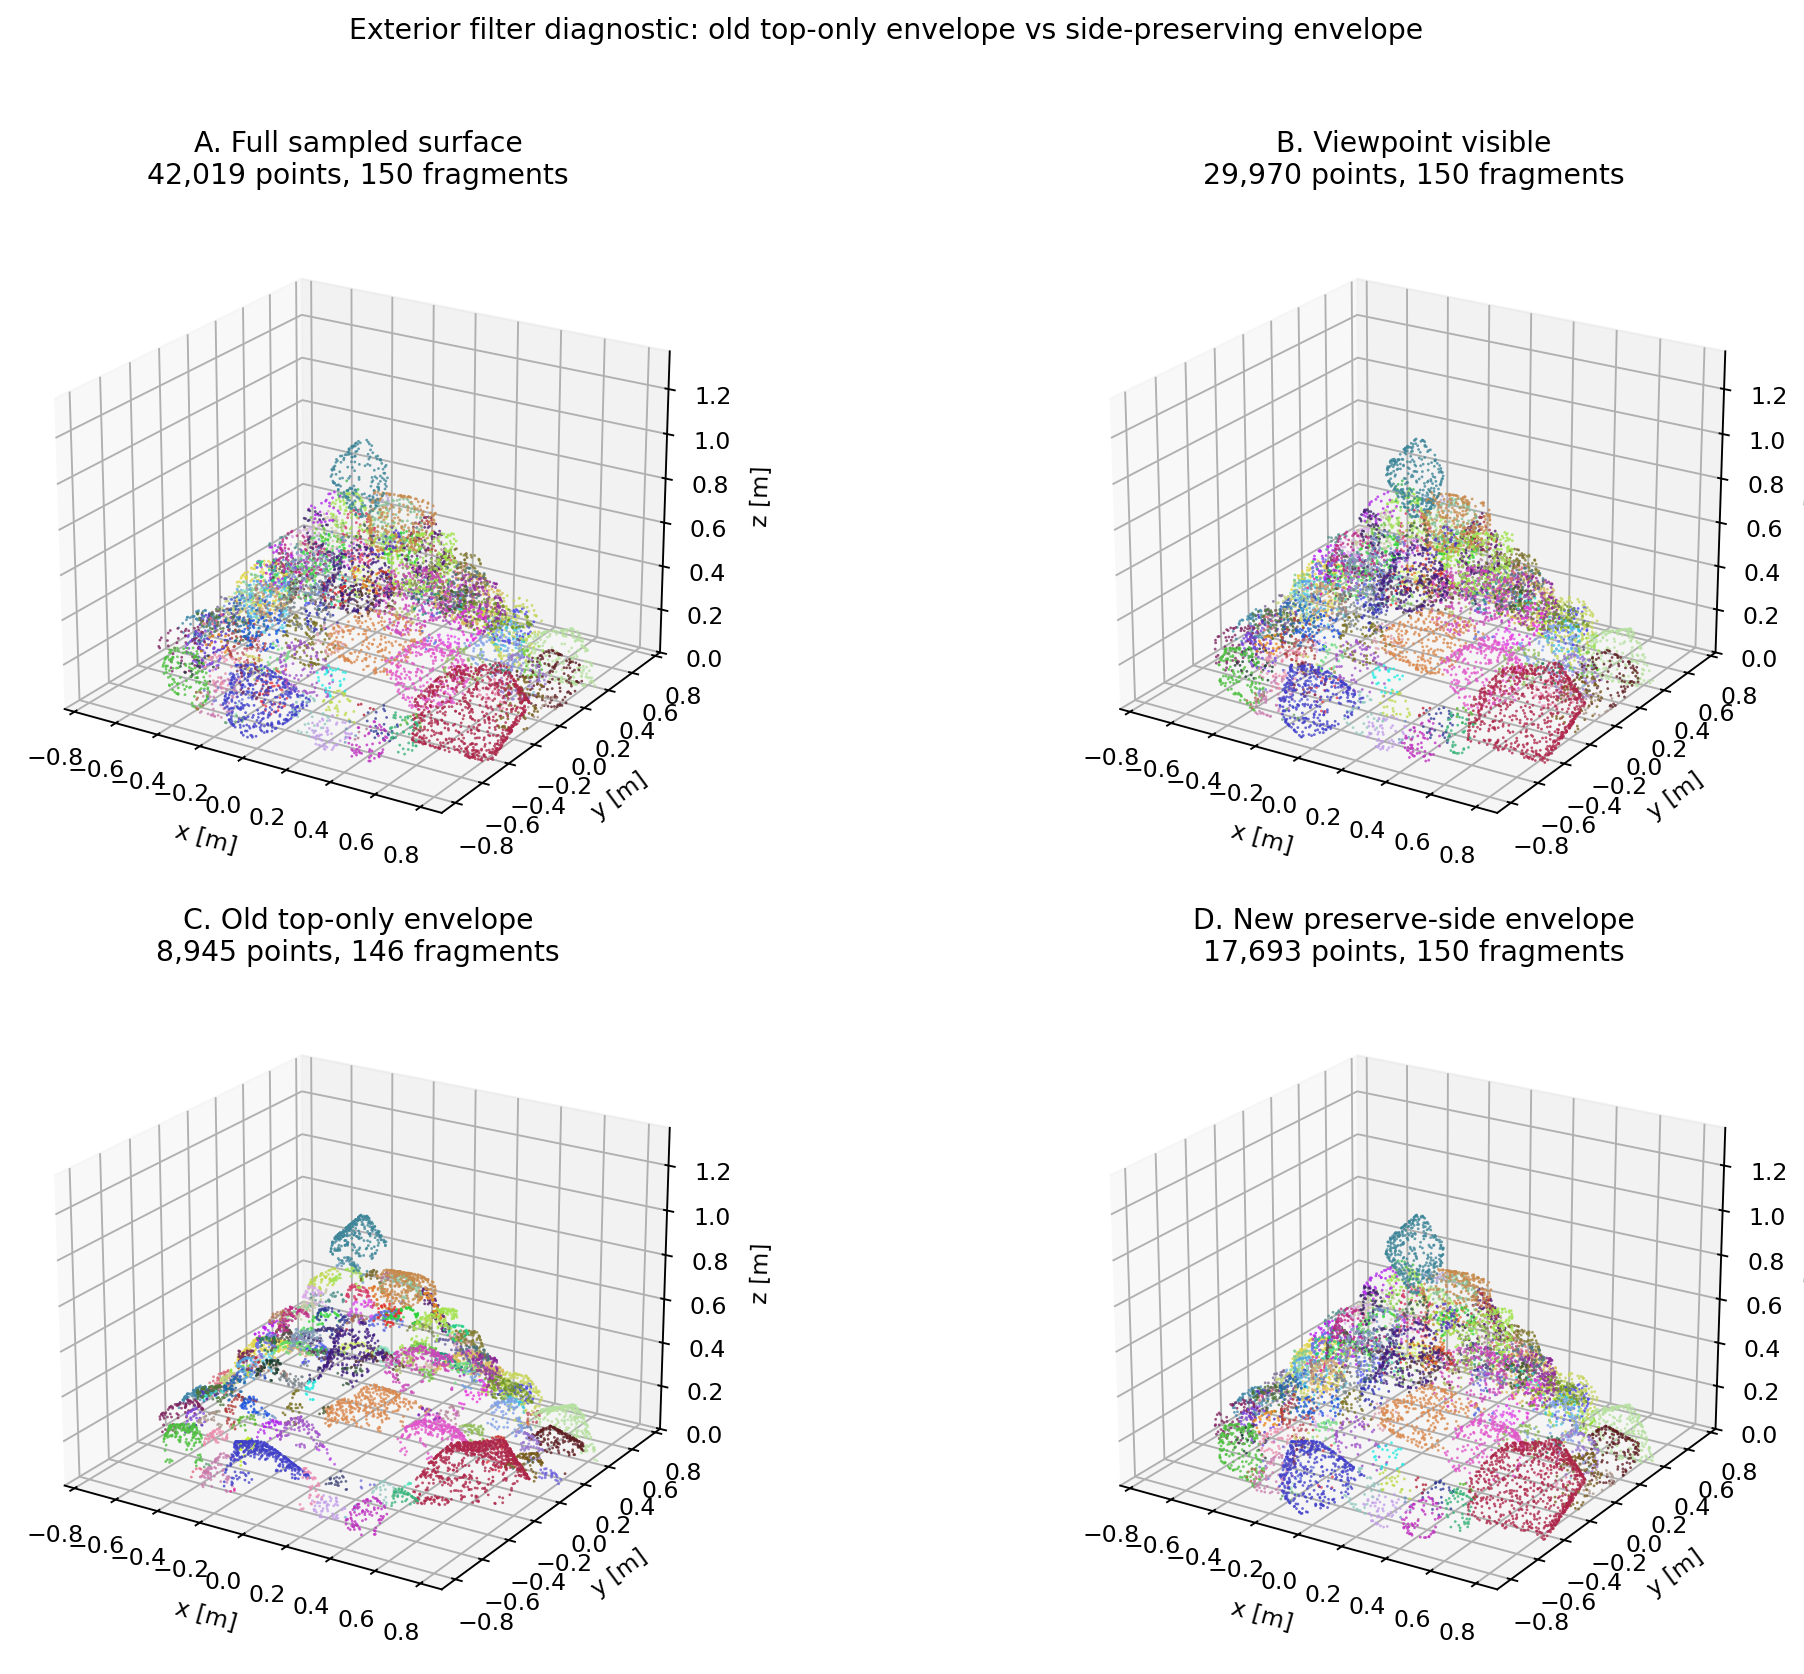
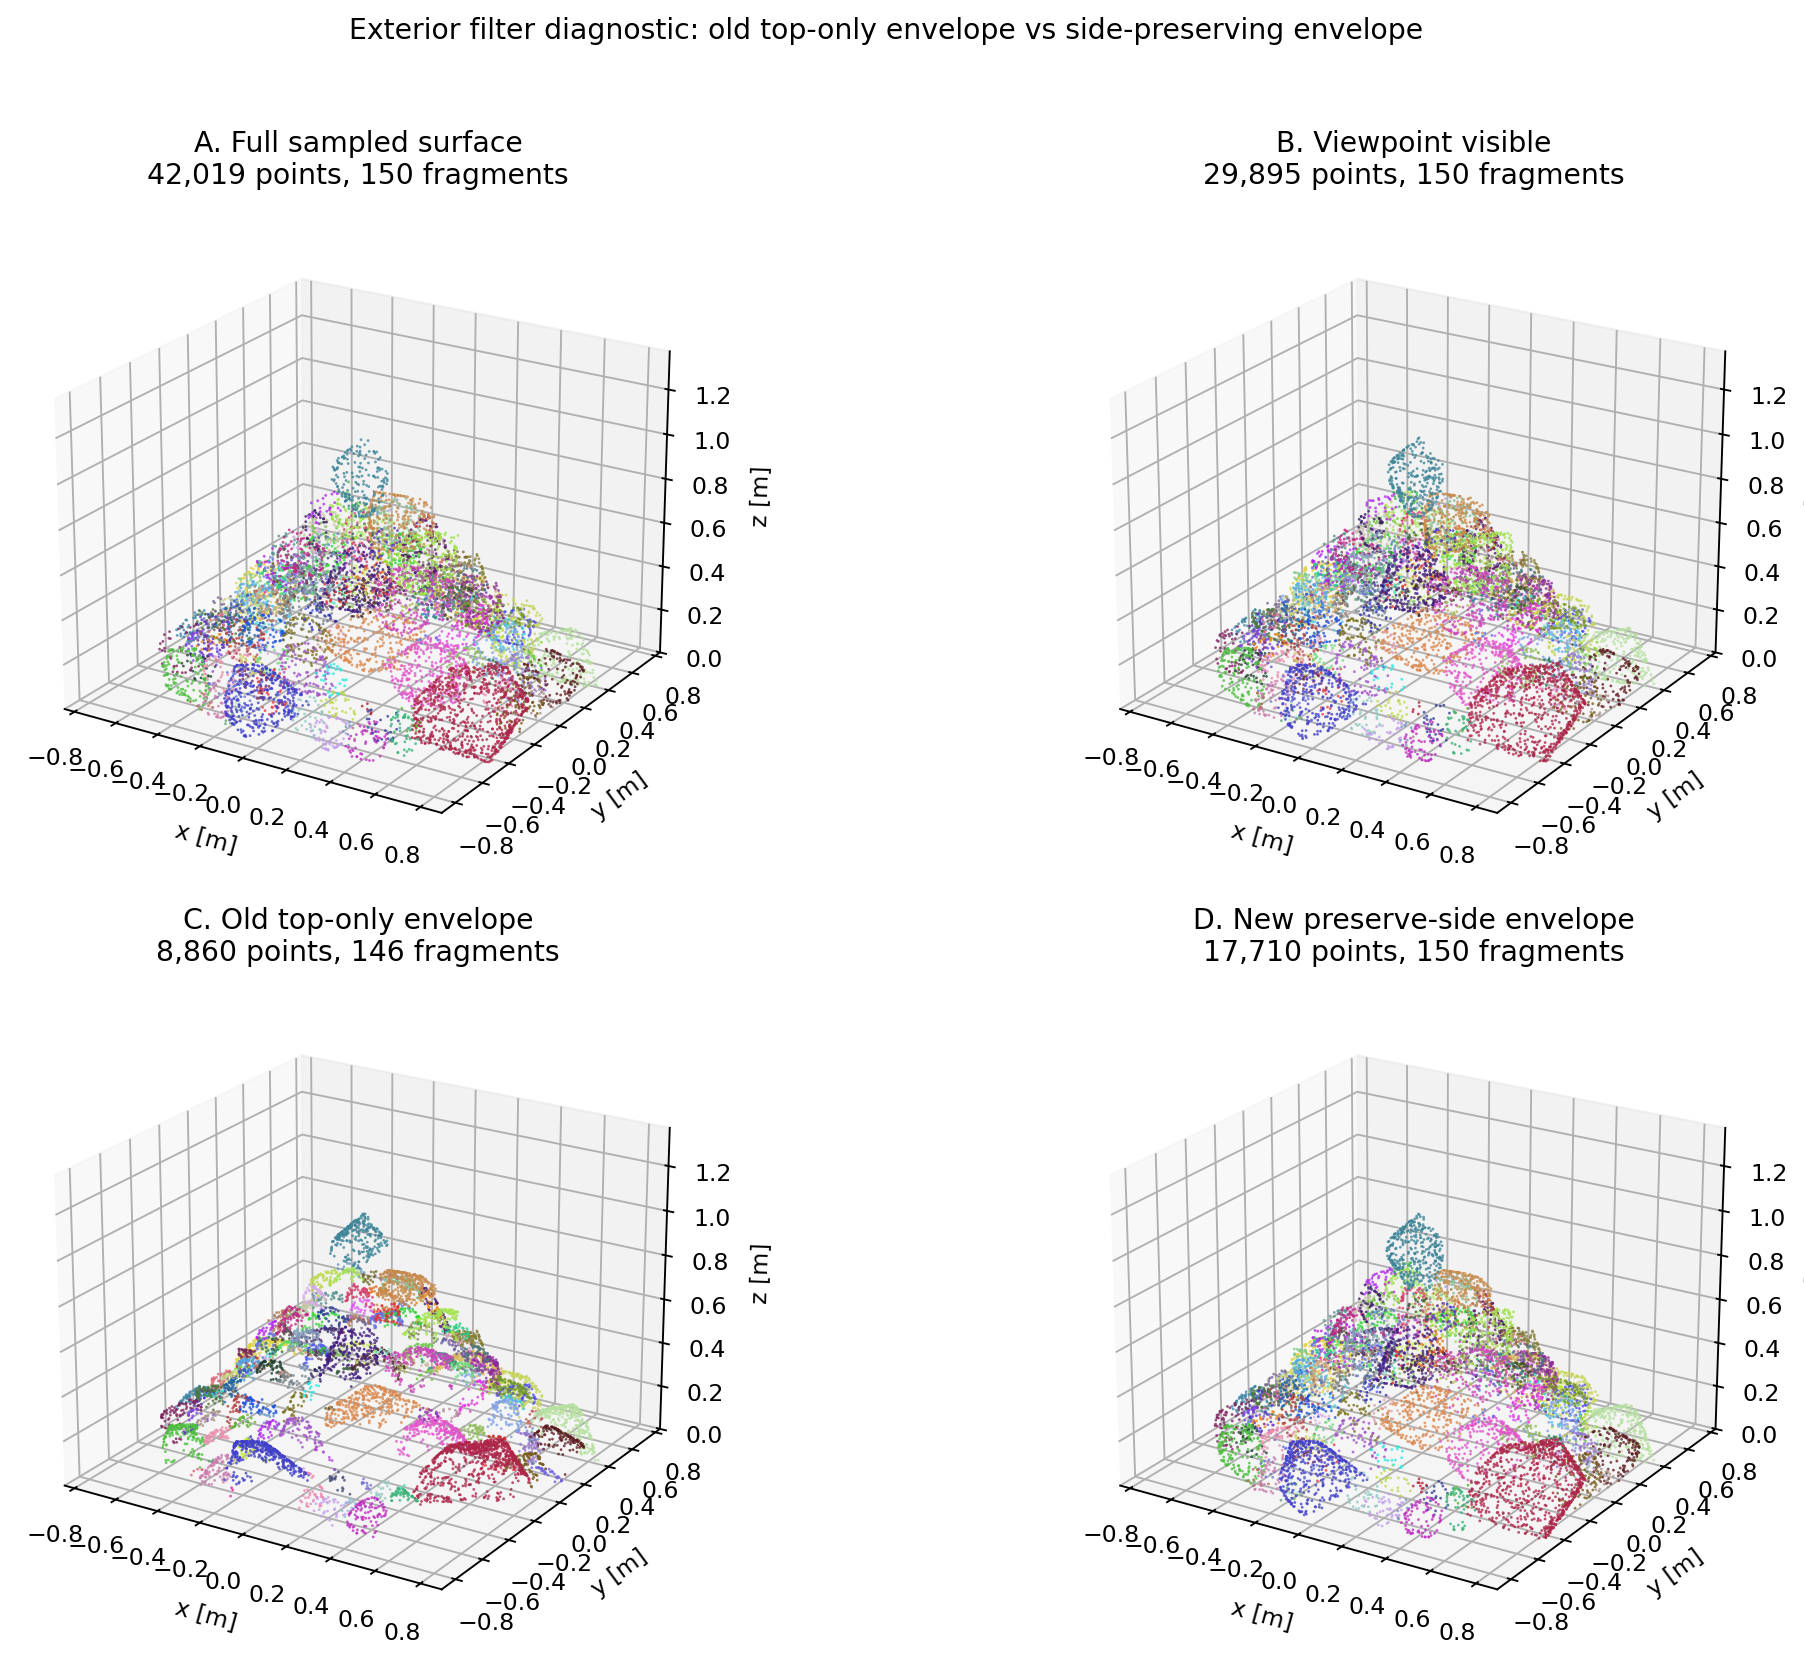
Add exterior filter half-cut diagnostic

diff --git a/scripts/diagnose_exterior_filter.py b/scripts/diagnose_exterior_filter.py
@@ -53,6 +53,13 @@ def set_equal_3d(ax, points: np.ndarray) -> None:
     ax.view_init(elev=22, azim=-58)
 
 
+def half_cut(points: np.ndarray, labels: np.ndarray, cut_x: float) -> tuple[np.ndarray, np.ndarray]:
+    """Return one half of the pile so the interior section is visible."""
+
+    keep = points[:, 0] <= cut_x
+    return points[keep], labels[keep]
+
+
 def summarize(name: str, points: np.ndarray, labels: np.ndarray, full_labels: np.ndarray) -> dict:
     counts = pd.Series(labels).value_counts()
     full_counts = pd.Series(full_labels).value_counts()
@@ -154,8 +161,31 @@ def main() -> None:
     fig.savefig(fig_path, bbox_inches="tight")
     plt.close(fig)
 
+    cut_x = float(np.median(full_points[:, 0]))
+    section_panels = [
+        ("A. Full sampled surface, half cut", full_points, full_labels),
+        ("B. Viewpoint visible, half cut", view_points, view_labels),
+        ("C. Old top-only envelope, half cut", old_points, old_labels),
+        ("D. New preserve-side envelope, half cut", new_points, new_labels),
+    ]
+    fig = plt.figure(figsize=(14, 10), dpi=170)
+    for i, (title, points, labels) in enumerate(section_panels, start=1):
+        ax = fig.add_subplot(2, 2, i, projection="3d")
+        section_points, section_labels = half_cut(points, labels, cut_x)
+        pts, labs = downsample(section_points, section_labels, args.max_plot_points, seed=100 + i)
+        ax.scatter(pts[:, 0], pts[:, 1], pts[:, 2], c=label_colors(labs), s=1.8, alpha=0.82, linewidths=0)
+        ax.set_title(f"{title}\n{len(section_points):,} section points")
+        set_equal_3d(ax, full_points)
+        ax.view_init(elev=18, azim=-82)
+    fig.suptitle(f"Exterior filter half-cut diagnostic: x <= {cut_x:.3f} m", y=0.98)
+    fig.tight_layout(rect=(0, 0, 1, 0.96))
+    section_fig_path = OUT_DIR / f"exterior_filter_halfcut_scene{args.scene_id:03d}.png"
+    fig.savefig(section_fig_path, bbox_inches="tight")
+    plt.close(fig)
+
     print(summary.to_string(index=False))
     print(fig_path)
+    print(section_fig_path)
     print(summary_path)
 
 